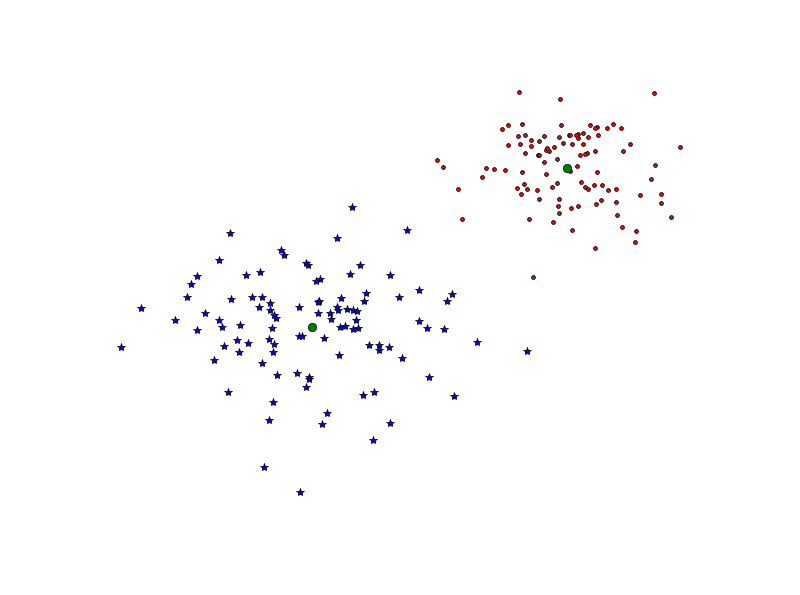
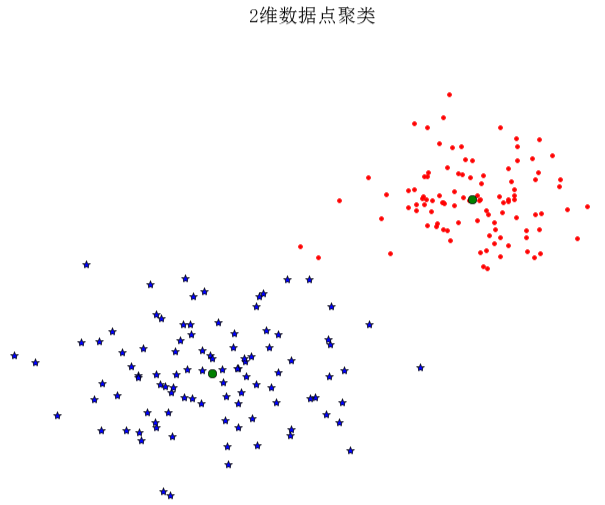
add new content in ch06

diff --git a/pcv-code/ch06/chapter6.2-figure6.6-cluster-sunset.py b/pcv-code/ch06/chapter6.2-figure6.6-cluster-sunset.py
@@ -1,0 +1,32 @@
+import os
+import Image
+from PCV.clustering import hcluster
+# create a list of images
+from matplotlib.pyplot import *
+from numpy import *
+
+path = 'D:\\GitHub\\PCV-translation-to-Chinese\\data\\sunsets\\flickr-sunsets-small\\'
+imlist = [os.path.join(path, f) for f in os.listdir(path) if f.endswith('.jpg')]
+# extract feature vector (8 bins per color channel)
+features = zeros([len(imlist), 512])
+for i, f in enumerate(imlist):
+    im = array(Image.open(f))
+    # multi-dimensional histogram
+    h, edges = histogramdd(im.reshape(-1, 3), 8, normed=True, range=[(0, 255), (0, 255), (0, 255)])
+    features[i] = h.flatten()
+tree = hcluster.hcluster(features)
+
+# visualize clusters with some (arbitrary) threshold
+clusters = tree.extract_clusters(0.23 * tree.distance)
+# plot images for clusters with more than 3 elements
+for c in clusters:
+    elements = c.get_cluster_elements()
+    nbr_elements = len(elements)
+    if nbr_elements > 3:
+        figure()
+        for p in range(minimum(nbr_elements,20)):
+            subplot(4, 5, p + 1)
+            im = array(Image.open(imlist[elements[p]]))
+            imshow(im)
+            axis('off')
+show()

diff --git a/pcv-code/ch06/ch06_fig64_kmeans-pixels.py b/pcv-code/ch06/ch06_fig64_kmeans-pixels.py
@@ -1,13 +1,16 @@
+# coding=utf-8
 """
 Function: figure 6.4
     Clustering of pixels based on their color value using k-means.
-Date: 2013-10-27
 """
-# coding=utf-8
 from scipy.cluster.vq import *
 from scipy.misc import imresize
 from pylab import *
 import Image
+
+# 添加中文字体支持
+from matplotlib.font_manager import FontProperties
+font = FontProperties(fname=r"c:\windows\fonts\SimSun.ttc", size=14)
 
 steps = 100  # image is divided in steps*steps region
 infile = '../data/empire.jpg'
@@ -29,13 +32,18 @@ code, distance = vq(features, centroids)
 # create image with cluster labels
 codeim = code.reshape(steps, steps)
 codeim = imresize(codeim, im.shape[:2], 'nearest')
+
 figure()
 ax1 = subplot(121)
-ax1.set_title('Image')
+title(u'原图', fontproperties=font)
+#ax1.set_title('Image')
 axis('off')
 imshow(im)
+
 ax2 = subplot(122)
-ax2.set_title('Image after clustering')
+title(u'聚类后的图像', fontproperties=font)
+#ax2.set_title('Image after clustering')
 axis('off')
 imshow(codeim)
+
 show()

diff --git a/pcv-code/ch06/ch06_fig61_kmeans-2D.py b/pcv-code/ch06/ch06_fig61_kmeans-2D.py
@@ -2,10 +2,13 @@
 """
 Function:  figure 6.1
     An example of k-means clustering of 2D points
-Date: 2013-10-27
 """
 from pylab import *
 from scipy.cluster.vq import *
+
+# 添加中文字体支持
+from matplotlib.font_manager import FontProperties
+font = FontProperties(fname=r"c:\windows\fonts\SimSun.ttc", size=14)
 
 class1 = 1.5 * randn(100, 2)
 class2 = randn(100, 2) + array([5, 5])
@@ -18,5 +21,7 @@ plot(features[ndx, 0], features[ndx, 1], '*')
 ndx = where(code == 1)[0]
 plot(features[ndx, 0], features[ndx, 1], 'r.')
 plot(centroids[:, 0], centroids[:, 1], 'go')
+
+title(u'2维数据点聚类', fontproperties=font)
 axis('off')
 show()

diff --git a/chapter6.md b/chapter6.md
@@ -1,6 +1,6 @@
 ---
 layout: chapter
-title: 第六章 用户模型
+title: 第六章 图像聚类
 ---
 
 <h2 id="sec-6-1">6.1 K-Means聚类</h2>
@@ -13,8 +13,17 @@ Function:  figure 6.1
     An example of k-means clustering of 2D points
 Date: 2013-10-27
 """
+# coding=utf-8
+"""
+Function:  figure 6.1
+    An example of k-means clustering of 2D points
+"""
 from pylab import *
 from scipy.cluster.vq import *
+
+# 添加中文字体支持
+from matplotlib.font_manager import FontProperties
+font = FontProperties(fname=r"c:\windows\fonts\SimSun.ttc", size=14)
 
 class1 = 1.5 * randn(100, 2)
 class2 = randn(100, 2) + array([5, 5])
@@ -27,8 +36,10 @@ plot(features[ndx, 0], features[ndx, 1], '*')
 ndx = where(code == 1)[0]
 plot(features[ndx, 0], features[ndx, 1], 'r.')
 plot(centroids[:, 0], centroids[:, 1], 'go')
+
+title(u'2维数据点聚类', fontproperties=font)
 axis('off')
-show()
+show(
 ```
 运行上面代码，可得到原书P129页图6-1，即：
 ![ch06_fig61_kmeans-2D](assets/images/figures/ch06/ch06_fig61_kmeans-2D.png)
@@ -86,17 +97,19 @@ img.save('../images/ch06/pca_font.png')
 P133 Figure6-4
 
 ```python
- # -*- coding: utf-8 -*-
+# coding=utf-8
 """
 Function: figure 6.4
     Clustering of pixels based on their color value using k-means.
-Date: 2013-10-27
 """
-# coding=utf-8
 from scipy.cluster.vq import *
 from scipy.misc import imresize
 from pylab import *
 import Image
+
+# 添加中文字体支持
+from matplotlib.font_manager import FontProperties
+font = FontProperties(fname=r"c:\windows\fonts\SimSun.ttc", size=14)
 
 steps = 100  # image is divided in steps*steps region
 infile = '../data/empire.jpg'
@@ -118,16 +131,21 @@ code, distance = vq(features, centroids)
 # create image with cluster labels
 codeim = code.reshape(steps, steps)
 codeim = imresize(codeim, im.shape[:2], 'nearest')
+
 figure()
 ax1 = subplot(121)
-ax1.set_title('Image')
+title(u'原图', fontproperties=font)
+#ax1.set_title('Image')
 axis('off')
 imshow(im)
+
 ax2 = subplot(122)
-ax2.set_title('Image after clustering')
+title(u'聚类后的图像', fontproperties=font)
+#ax2.set_title('Image after clustering')
 axis('off')
 imshow(codeim)
-show()
+
+show(
 ```
 运行上面代码，即可得出原书P133页图6-4中的例子。
 ![ch06_fig64_kmeans-pixels](assets/images/figures/ch06/ch06_fig64_kmeans-pixels.png)
